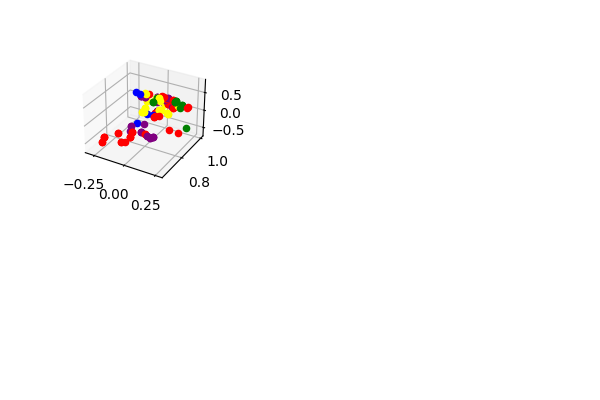
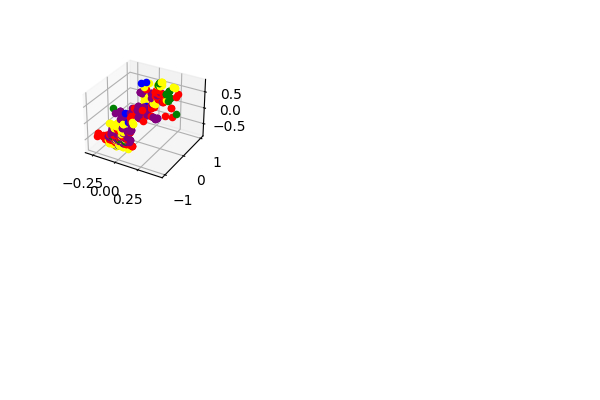
Update camera resolution

diff --git a/Capture/five_camera_capture.py b/Capture/five_camera_capture.py
@@ -17,16 +17,16 @@ camera_5 = cv2.VideoCapture(5) # Camera 1
 print("Camera5 open")
 
 # Set the camera parameters
-camera_1.set(cv2.CAP_PROP_FRAME_WIDTH, 3840)
-camera_1.set(cv2.CAP_PROP_FRAME_HEIGHT, 2160)
-camera_2.set(cv2.CAP_PROP_FRAME_WIDTH, 3840)
-camera_2.set(cv2.CAP_PROP_FRAME_HEIGHT, 2160)
-camera_3.set(cv2.CAP_PROP_FRAME_WIDTH, 3840)
-camera_3.set(cv2.CAP_PROP_FRAME_HEIGHT, 2160)
-camera_4.set(cv2.CAP_PROP_FRAME_WIDTH, 3840)
-camera_4.set(cv2.CAP_PROP_FRAME_HEIGHT, 2160)
-camera_5.set(cv2.CAP_PROP_FRAME_WIDTH, 3840)
-camera_5.set(cv2.CAP_PROP_FRAME_HEIGHT, 2160)
+camera_1.set(cv2.CAP_PROP_FRAME_WIDTH, 1280)
+camera_1.set(cv2.CAP_PROP_FRAME_HEIGHT, 720)
+camera_2.set(cv2.CAP_PROP_FRAME_WIDTH, 1280)
+camera_2.set(cv2.CAP_PROP_FRAME_HEIGHT, 720)
+camera_3.set(cv2.CAP_PROP_FRAME_WIDTH, 1280)
+camera_3.set(cv2.CAP_PROP_FRAME_HEIGHT, 720)
+camera_4.set(cv2.CAP_PROP_FRAME_WIDTH, 1280)
+camera_4.set(cv2.CAP_PROP_FRAME_HEIGHT, 720)
+camera_5.set(cv2.CAP_PROP_FRAME_WIDTH, 1280)
+camera_5.set(cv2.CAP_PROP_FRAME_HEIGHT, 720)
 
 # Read one frame from each camera to determine frame size
 ret1, frame_1 = camera_1.read()
